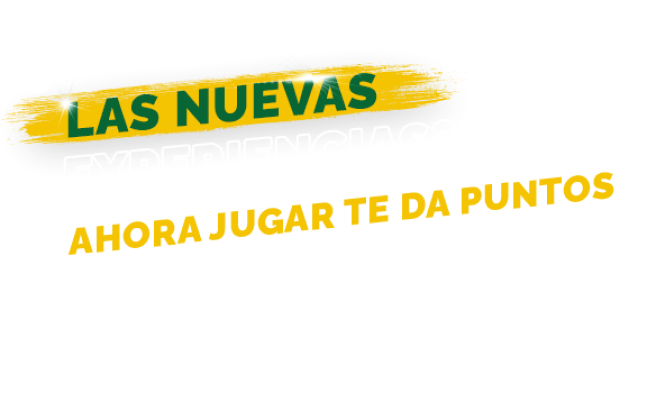
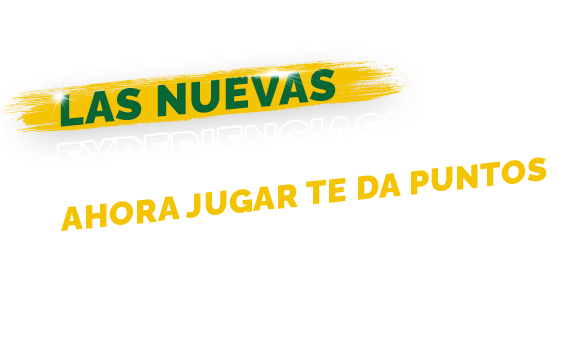
cambios v2.2.1

Changed region(s): [[0.0, 0.1519, 0.7138, 0.3646], [0.0931, 0.4254, 0.9621, 0.6685]]

diff --git a/src/app/pages/home/home.component.html b/src/app/pages/home/home.component.html
@@ -5,12 +5,9 @@
             <div class="" style="z-index: 1;">
                 <img src="./assets/home/mano_1home.png" alt="mano" class="img-fluid">
             </div>
-            <div class="" style="transform: translate(-25%, 27%);">
+            <div class="" style="transform: translate(-25%, 5%);">
                 <img src="./assets/home/raspa_1home.png" alt="mano" class="img-fluid">
             </div>
-        </div>
-        <div class="mt-5 ms-5">
-            <img src="./assets/home/tarjetones_1home.png" alt="tarjetones" class="img-fluid">
         </div>
     </div>
     <div class="col-lg-4 col-sm-12 p-0 w-50 form-centrar-movil w-lg-25 w-xs-100" style="border-radius: 23px;">
@@ -65,7 +62,7 @@
                 </ng-container>
             </div>
             <div class="form-group mb-4">
-                <label class="text-white">Digita el código del Raspa Y Gana</label>
+                <label class="text-white">Ingresa el código de barras de la tabla.</label>
             </div>
             <div class="form-group mb-2">
                 <div class="form-check">
